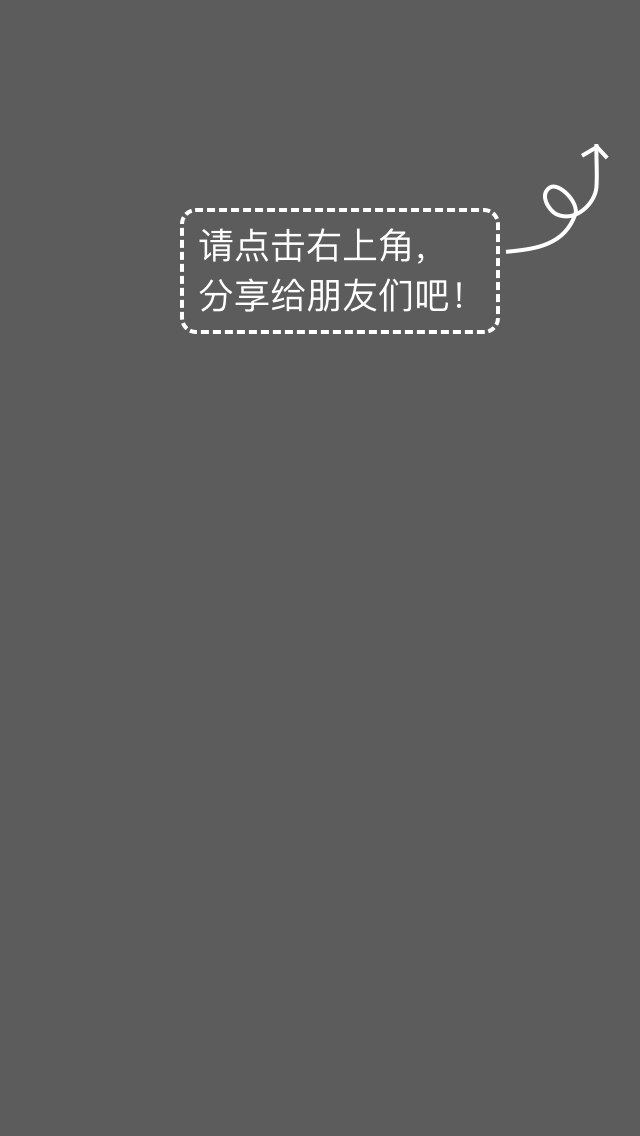
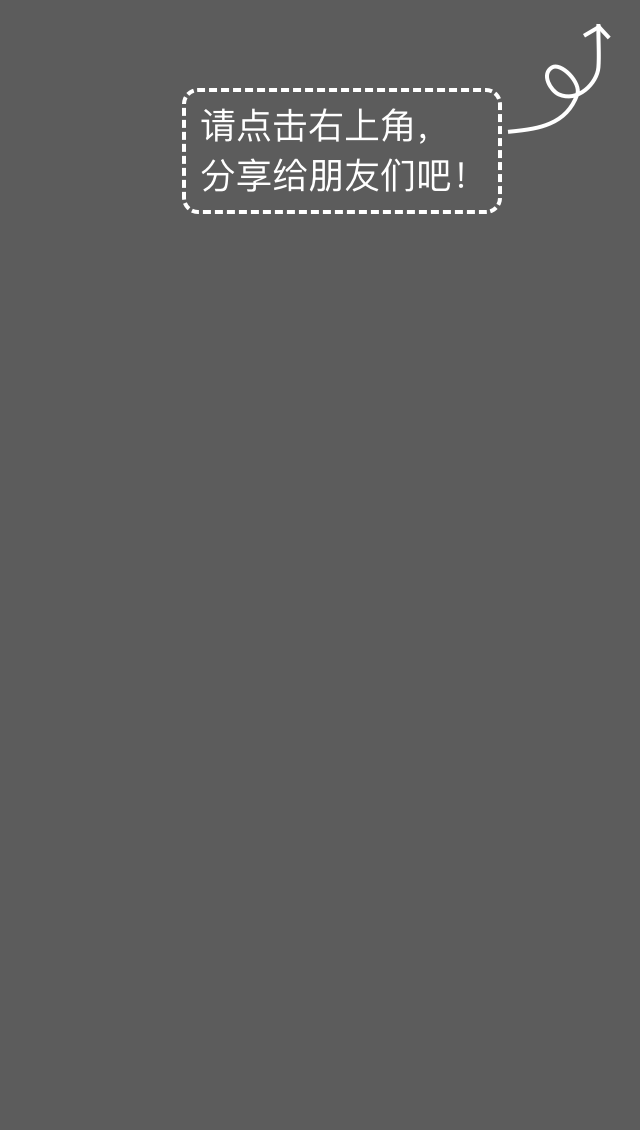
[done] 分享 + 速度
1、分享调整
2、速度曲线

diff --git a/wx/views/daka.html b/wx/views/daka.html
@@ -18,7 +18,7 @@
   <body>
     <div class="col-xs-12 col-md-6 col-lg-3 bgk2container">
         <div class="part-page" id="page1">
-          <div class="part-head classBindUp">
+          <div class="part-head classBindUp"> <!-- 10% -->
             <div class="part-head-user">
               <img class="user-logo" id="imgUser" src="./../img/user-head.png"/>
               <label class="lbl-user" id="nickname">肌遇打卡小王子</label>
@@ -27,9 +27,9 @@
               <img class="slogon-logo" src="./../img/jiyu.png"/>
               <img class="img-logo" src="./../img/jiyu-logo.png"/>
             </div>
-          </div>
-          <!-- END: head -->
-          <div class="page-graph" id="bindUp">
+          </div><!-- END: head -->
+
+          <div class="page-graph" id="bindUp"> <!-- 55% -->
             <div class="agraph">
               <canvas class="canvas-circle" id="circle1" width="300" height="300"></canvas>
               <canvas class="canvas-circle" id="circle2" width="300" height="300"></canvas>
@@ -49,9 +49,9 @@
           </div>  <!-- END: 环形图 -->
 
           <!-- END: Draw Graph -->
-          <div class="page-sign">
+          <div class="page-sign"> <!-- 40% -->
             <label>训练内容</label>
-            <div class="tdgroup">
+            <div class="tdgroup"> <!-- 20% -->
                 <table>
                   <tbody>
                     <tr>
@@ -67,11 +67,11 @@
                   </tbody>
                 </table>
             </div>
-            <div class="abtn">
+            <div class="abtn" style="height:30%;"> <!-- 20% -->
               <button class="jybtn" id="btnDaka">打卡</button>
             </div>
 
-            <div class="agif classBindUp">
+            <div class="agif classBindUp" style="height:30%;"> <!-- 20% -->
               <img src="./../img/daka1/daka-next-antimate.gif"/>
             </div>
           </div>
@@ -80,7 +80,7 @@
         <!-- END: Page1 -->
 
         <div class="part-page" id="page2">
-          <div class="part-share" id="part-share"><img src="./../img/share.png"  style="object-fit:contain; width:100%;height:100%;"/></div>
+          <div class="part-share" id="part-share"><img src="./../img/share.png"  style="width:100%;height:100%;"/></div>
           <!-- END: 分享 -->
           <div class="part-head classBindDown"> <!-- 10% -->
             <div class="part-head-user">
@@ -140,11 +140,9 @@
               <button class="jybtn" id="btnShare">分享</button>
             </div>
 
-            <div class="part-tail" id="bindDown">
-              <div class="aimg">
-                <img src="./../img/daka2/slogan2.png"/>
-              </div>
-            </div> <!-- END: Part-tail -->
+            <div class="aimg" id="bindDown" style="height: 32%;">
+              <img src="./../img/daka2/slogan2.png"/>
+            </div>
           </div> <!-- END: calendar -->
 
         </div>

diff --git a/wx/css/jy/index.css b/wx/css/jy/index.css
@@ -157,6 +157,7 @@ body{
 .tdgroup table {
   text-align: center;
   width: 100%;
+  height: 20%;
 }
 
 .tdgroup table td{
@@ -180,7 +181,7 @@ body{
 }
 
 .abtn{
-  margin-top: 8%;
+  padding-top: 8%;
   text-align: center;
 }
 
@@ -201,7 +202,8 @@ body{
 }
 
 .agif {
-  margin-top: 8%;
+  padding-top: 8%;
+  height: 30%;
   text-align: center;
 }
 
@@ -233,10 +235,6 @@ body{
   height: 58%;
 }
 
-.part-tail {
-  height: 32%;
-}
-
 /*分享页面*/
 .part-share {
   position: absolute;
@@ -245,6 +243,7 @@ body{
   object-fit: contain;
   z-index: 1000;
   display: none;
+  padding: 0 0 0 0;
 }
 
 .slides{
